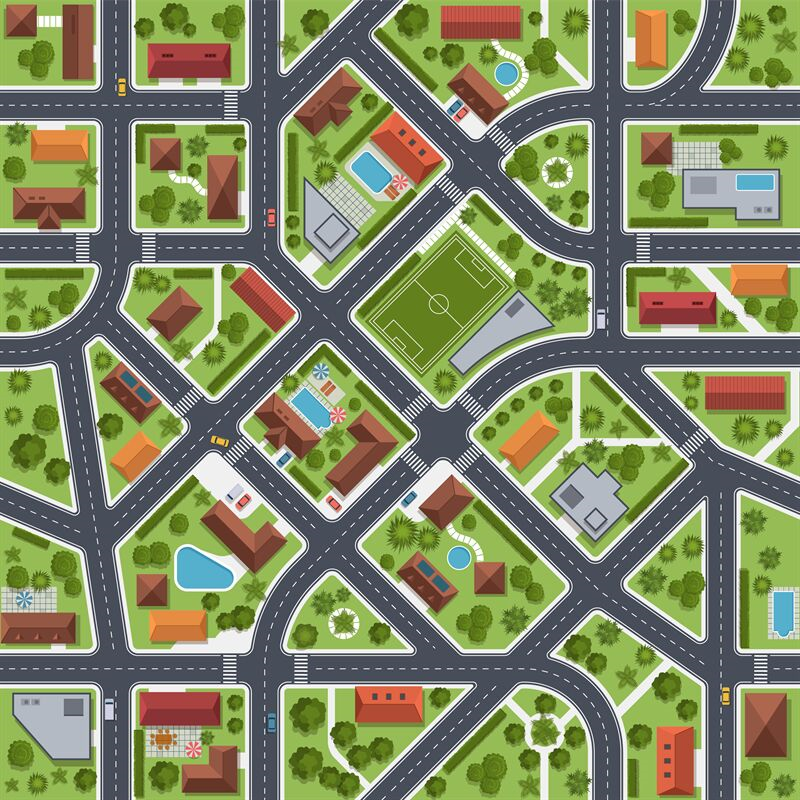
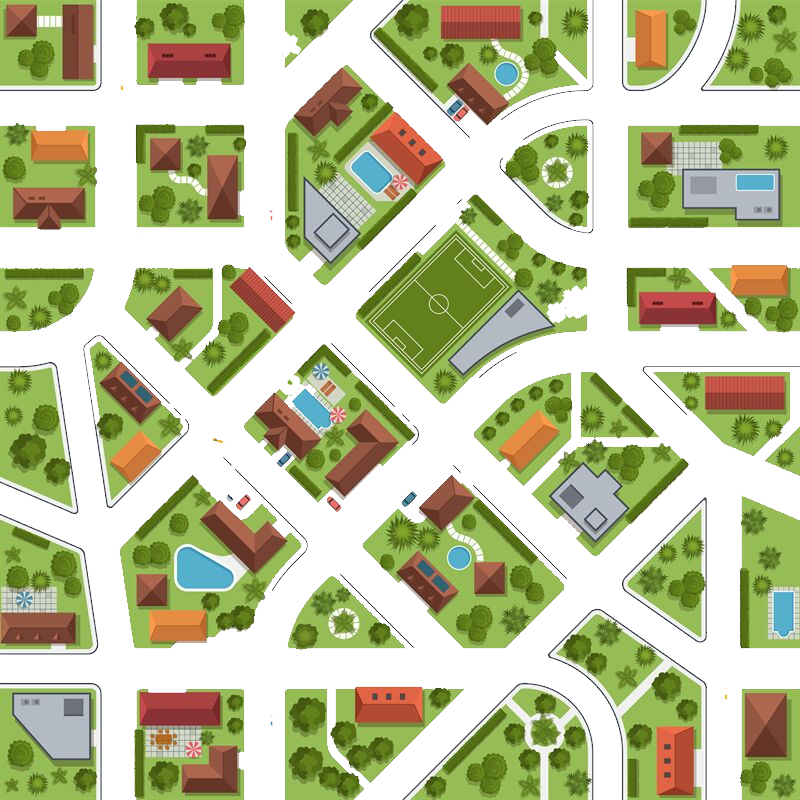
added some improvments to drifting and changed zoom to be based on map

diff --git a/thing.py b/thing.py
@@ -5,6 +5,8 @@ import math
 import cv2
 import numpy as np
 
+from pprint import pprint
+
 from factory import garage,maps
 from kill_bug import debug
 from camera import camera
@@ -20,7 +22,7 @@ screen = pg.display.set_mode((screen_width,screen_height))
 pg.display.set_caption('racing')
 
 
-selected_car = 'BMW' 
+selected_car = 'lamborghini' 
 #glinton
 #lamborghini
 #esquire
@@ -33,13 +35,36 @@ selected_map = 'river'
 #loop
 #river
 #city #not good
-bg_image = pg.image.load(maps[selected_map]['map']).convert()
+#village
+
+bg_image = pg.image.load(maps[selected_map]['map']).convert_alpha()
 bg_image = pg.transform.scale(bg_image, (screen_width,screen_height))
 
 
 
 
+def check_zoom():
+        # Load actual map
+    raw_map = pg.image.load(maps[selected_map]['map'])
+    map_width = raw_map.get_width()
+    map_height = raw_map.get_height()
 
+    # Reference map stats
+    ref_width = 7656/4
+    ref_height = 3740/4
+    ref_zoom = 6
+
+    # Calculate average sizes
+    ref_avg = (ref_width + ref_height) / 2
+    map_avg = (map_width + map_height) / 2
+    
+    
+    # Calculate scale ratio
+    scale_ratio = ref_avg / map_avg
+
+    # Final zoom
+    zoom =  (scale_ratio)*ref_zoom
+    return zoom
 
 class Car():
     def __init__(self,width,height,image,acceleration,max_speed,brake,handling):
@@ -53,7 +78,8 @@ class Car():
 
        
 
-        zoom = 4
+        zoom = check_zoom()
+
         self.acceleration =  acceleration
         self.friction = 500
         self.speed = 0
@@ -67,18 +93,20 @@ class Car():
         self.rotated_rect = self.rotated_image.get_rect(center=self.rect.center)
         self.angle = 0
 
-        self.road_image = pg.image.load(maps[selected_map]['road']).convert()
+        self.road_image = pg.image.load(maps[selected_map]['road']).convert_alpha()
         self.road_image = pg.transform.scale(self.road_image, (int(self.road_image.get_width()*zoom), int(self.road_image.get_height()*zoom)))
-        self.road = pg.mask.from_threshold(self.road_image,(255,255,255),(1,1,1))
+        self.road = self.road_image
         
-        self.map = pg.image.load(maps[selected_map]['map']).convert()
+        self.map = pg.image.load(maps[selected_map]['map']).convert_alpha()
         self.map = pg.transform.scale(self.map, (int(self.map.get_width()*zoom), int(self.map.get_height()*zoom)))
         
         self.map_size = self.map.get_width(),self.map.get_height()
 
+
         self.x,self.y = self.find_Spawn()
         self.x *= zoom
         self.y *= zoom
+       # print(self.map_size)
        # self.x,self.y = 0,0
         self.camera_x = self.x - screen_width//2
         self.camera_y = self.y - screen_height//2
@@ -87,12 +115,12 @@ class Car():
         #drift
         self.velocity = pg.Vector2(0,0)
         self.brake_drift = False
-        self.drift_factor = 0.8 # more is more drift 
+        self.drift_factor = 0.3 # more is more grip 
         self.new_drift = self.drift_factor
        #  self.facing_angle = 0
 
 
-        self.friction_off_road = 0.05
+        #self.friction_off_road = 0.05
     def rotate_car(self,rotation_speed):
         self.keys = pg.key.get_pressed()
         speed_loss_amount = self.acceleration*dt
@@ -126,7 +154,7 @@ class Car():
         
         return X[0],Y[0]
 
-    def on_road(self):
+    def is_on(self):
         road_color = (195, 195, 195)
         white = (255,255,255)
         black = (0,0,0)
@@ -134,7 +162,7 @@ class Car():
         self.pixel_color = self.road.get_at((int(self.x),int(self.y)))
         self.spawn_color_check = self.road_image.get_at((int(self.x),int(self.y)))
         
-        return self.pixel_color == 1
+        return self.pixel_color[:3]
 
         
     def drift(self, vector, velocity, drifting):
@@ -169,14 +197,14 @@ class Car():
         
         if self.keys[pg.K_SPACE]:
             if self.velocity.length() > 0:
-                friction_force = self.velocity.normalize() * -dt * self.acceleration*1.6
+                friction_force = self.velocity.normalize() * -dt * self.acceleration*1.05
                 self.velocity += friction_force
                 #debug.debug_on_screen(f' speed stopping power: {friction_force} ' )
                 # Stop if speed gets too low
                 if self.velocity.length() < 15:
                     self.velocity = pg.Vector2(0, 0)
             
-            max_drift = 0.3
+            max_drift = 0.1
             if self.new_drift > max_drift:
                 self.new_drift -= 0.05  # LOW = more sli   p
 
@@ -206,6 +234,9 @@ class Car():
             if self.speed > self.max_speed/2:
                 self.rotate_car(rotation_speed * 1.4)
             self.rotate_car(rotation_speed)
+
+        if self.speed > self.max_speed:
+            self.velocity.scale_to_length(self.max_speed)
         else:
             #friction
             self.speed = self.velocity.length()
@@ -216,8 +247,6 @@ class Car():
                 if self.speed <15:
                     self.velocity = pg.Vector2(0,0)        
             
-            if self.speed > self.max_speed:
-                self.velocity.scale_to_length(self.max_speed)
             
             if self.speed > 0:
                 self.rotate_car(rotation_speed * 1.3)
@@ -226,10 +255,10 @@ class Car():
                 self.rotate_car(rotation_speed)
 
         # thing1 = f'the vector velocity: {self.velocity}'
-        # thing2 = f'SPEED: {self.speed}'
-        
+        thing2 = f'SPEED: {self.speed}'
+    
         # debug.debug_on_screen(thing1,'blue')
-        # debug.debug_on_screen(thing2,'black')
+        debug.debug_on_screen(thing2,'black')
         
          # ===== drifting part ====
 
@@ -248,16 +277,18 @@ class Car():
         self.rect.center = (self.x, self.y)
         self.rect.clamp_ip(self.map.get_rect())
         self.x, self.y = self.rect.center
-
-        if not self.on_road():
-            #debug.debug_on_screen(self.pixel_color,'black')
-            #debug.debug_on_screen(f'no on road','red')
+        
+        self.pixel_color = self.is_on()
+        
+        white = (255,255,255)
+        if self.pixel_color != white:
             self.speed = self.velocity.length()
             if self.speed > self.max_speed/3:
                 off_road_fiction = self.velocity.normalize()*-self.friction*20
                 self.velocity += off_road_fiction *dt
 
-
+        debug.debug_on_screen(self.pixel_color,'black')
+        debug.debug_on_screen(f'no on road','red')
         self.speed = self.velocity.length()
 
         #thing = f"current_speed :{int(self.speed)} ,  current_angle:{int(self.angle)}"
@@ -291,6 +322,9 @@ class Car():
 
 
 player_car = Car(**garage[selected_car])
+
+
+
 
 def draw_all():
    # background()

diff --git a/test.py b/test.py
@@ -1,7 +1,83 @@
-import time
-start = time.time()
-for i in range(6_600_000):
-    pass  # empty loop
-end = time.time()
+import pygame
+pygame.init()
 
-print(f"Took {end - start:.2f} seconds")
+screen = pygame.display.set_mode((700,700))
+pygame.display.set_caption("Game")
+
+speed = 20
+x = 200
+y = 600
+
+
+def game_map():
+
+    global rect_one
+    surface = pygame.Surface((100, 100), pygame.SRCALPHA)
+    rect_one = pygame.draw.rect(surface, (0, 0, 255), (0, 0, 50, 50)) 
+
+    global rect_two
+    surface_one = pygame.Surface((80, 80), pygame.SRCALPHA)
+    rect_two = pygame.draw.rect(surface_one, (255, 255, 255), (0, 0, 50, 50)) 
+
+    tileX = 0
+    tileY = 0
+
+    global tile_list
+    tile_list = []
+    map = [
+            [1,1,1,1,1,1,1,1,1,1,1,1,1,1,1,1,1,1,1,1,1,1,1,1,1,1],
+            [1,0,0,0,1,0,1,0,0,0,0,0,1,1,0,0,0,1,0,1,0,0,0,0,0,1],
+            [1,0,1,0,0,0,1,0,1,1,1,0,1,1,0,1,0,0,0,1,0,1,1,1,0,1],
+            [1,0,0,0,1,1,1,0,0,0,0,0,1,1,0,0,0,1,1,1,0,0,0,0,0,1],
+            [1,0,1,0,0,0,0,0,1,1,1,0,1,1,0,1,0,1,1,1,0,1,0,0,0,1],
+            [1,0,1,0,1,1,1,0,1,0,0,0,1,1,0,1,0,1,0,0,0,1,1,1,0,1],
+            [1,0,1,0,1,0,0,0,1,1,1,0,1,1,0,1,0,1,1,1,0,1,0,1,0,1],
+            [1,0,1,0,1,1,1,0,1,0,1,0,1,1,0,0,0,0,0,0,0,0,0,1,0,1],
+            [1,0,0,0,0,0,0,0,0,0,1,0,1,1,0,0,0,0,0,0,0,0,0,1,0,1],
+            [1,1,1,1,1,1,1,1,1,1,1,1,1,1,1,1,1,1,1,1,1,1,1,1,1,1],
+    ]
+
+    for y, row in enumerate(map):
+        tileX = 0
+        for x, cell in enumerate(row):
+            image = surface if cell == 1 else surface_one
+            screen.blit(image, [x*50, y*50]) 
+            tile_list.append(rect_one)
+    pygame.display.update() 
+
+
+def player():
+    player = pygame.draw.rect(screen, (255,0,0), (x, y, 20, 20))   
+
+    for i in tile_list:
+        if player.colliderect(i):
+            print("hello")
+
+loop = True
+
+while loop:
+    pygame.time.delay(100)
+
+    for event in pygame.event.get():
+        if event.type == pygame.QUIT:
+            loop = False
+
+    #player controls
+    keys = pygame.key.get_pressed()
+    
+    if keys[pygame.K_LEFT]:
+        x -= speed
+    if keys[pygame.K_RIGHT]:
+        x += speed
+    if keys[pygame.K_UP]:
+        y -= speed
+    if keys[pygame.K_DOWN]:
+        y += speed
+
+    screen.fill((255,255,255))
+    game_map()
+    player()
+    pygame.display.update()
+
+
+pygame.quit()

diff --git a/factory.py b/factory.py
@@ -11,7 +11,7 @@ garage = {
         'acceleration': 1400,
         'max_speed': 1600,
         'brake': 16,
-        'handling': 0.6
+        'handling': 0.3
     },
 
     "glinton":{
@@ -21,7 +21,7 @@ garage = {
         'acceleration': 1500,
         'max_speed': 1700,
         'brake': 18,
-        'handling': 0.9
+        'handling': 0.4
     },
 
     "esquire":{
@@ -31,7 +31,7 @@ garage = {
         'acceleration': 1700,
         'max_speed': 1400,
         'brake': 20,
-        'handling': 1.1
+        'handling': 0.55
     },
 
     "lamborghini":{
@@ -41,7 +41,7 @@ garage = {
         'acceleration': 2300,
         'max_speed': 2000,
         'brake': 30,
-        'handling': 1.4
+        'handling': 0.7
     },
 
     "pony":{
@@ -51,7 +51,7 @@ garage = {
     'acceleration': 1800,
     'max_speed': 3000,
     'brake': 30,
-    'handling': 1.4
+    'handling': 0.7
     },
 
     "BMW":{
@@ -61,7 +61,7 @@ garage = {
     'acceleration': 2000,
     'max_speed': 10000,
     'brake': 40,
-    'handling': 1.6
+    'handling': 0.8
     },     
     
 
@@ -87,5 +87,10 @@ maps = {
         'map': 'maps/city/city.png',
         'road': 'maps\city\city_road.png',
         
+    },
+    'village':{
+        'map': 'maps/village/village.png',
+        'road': 'maps/village/village_road.png',
+    
     }
 }
